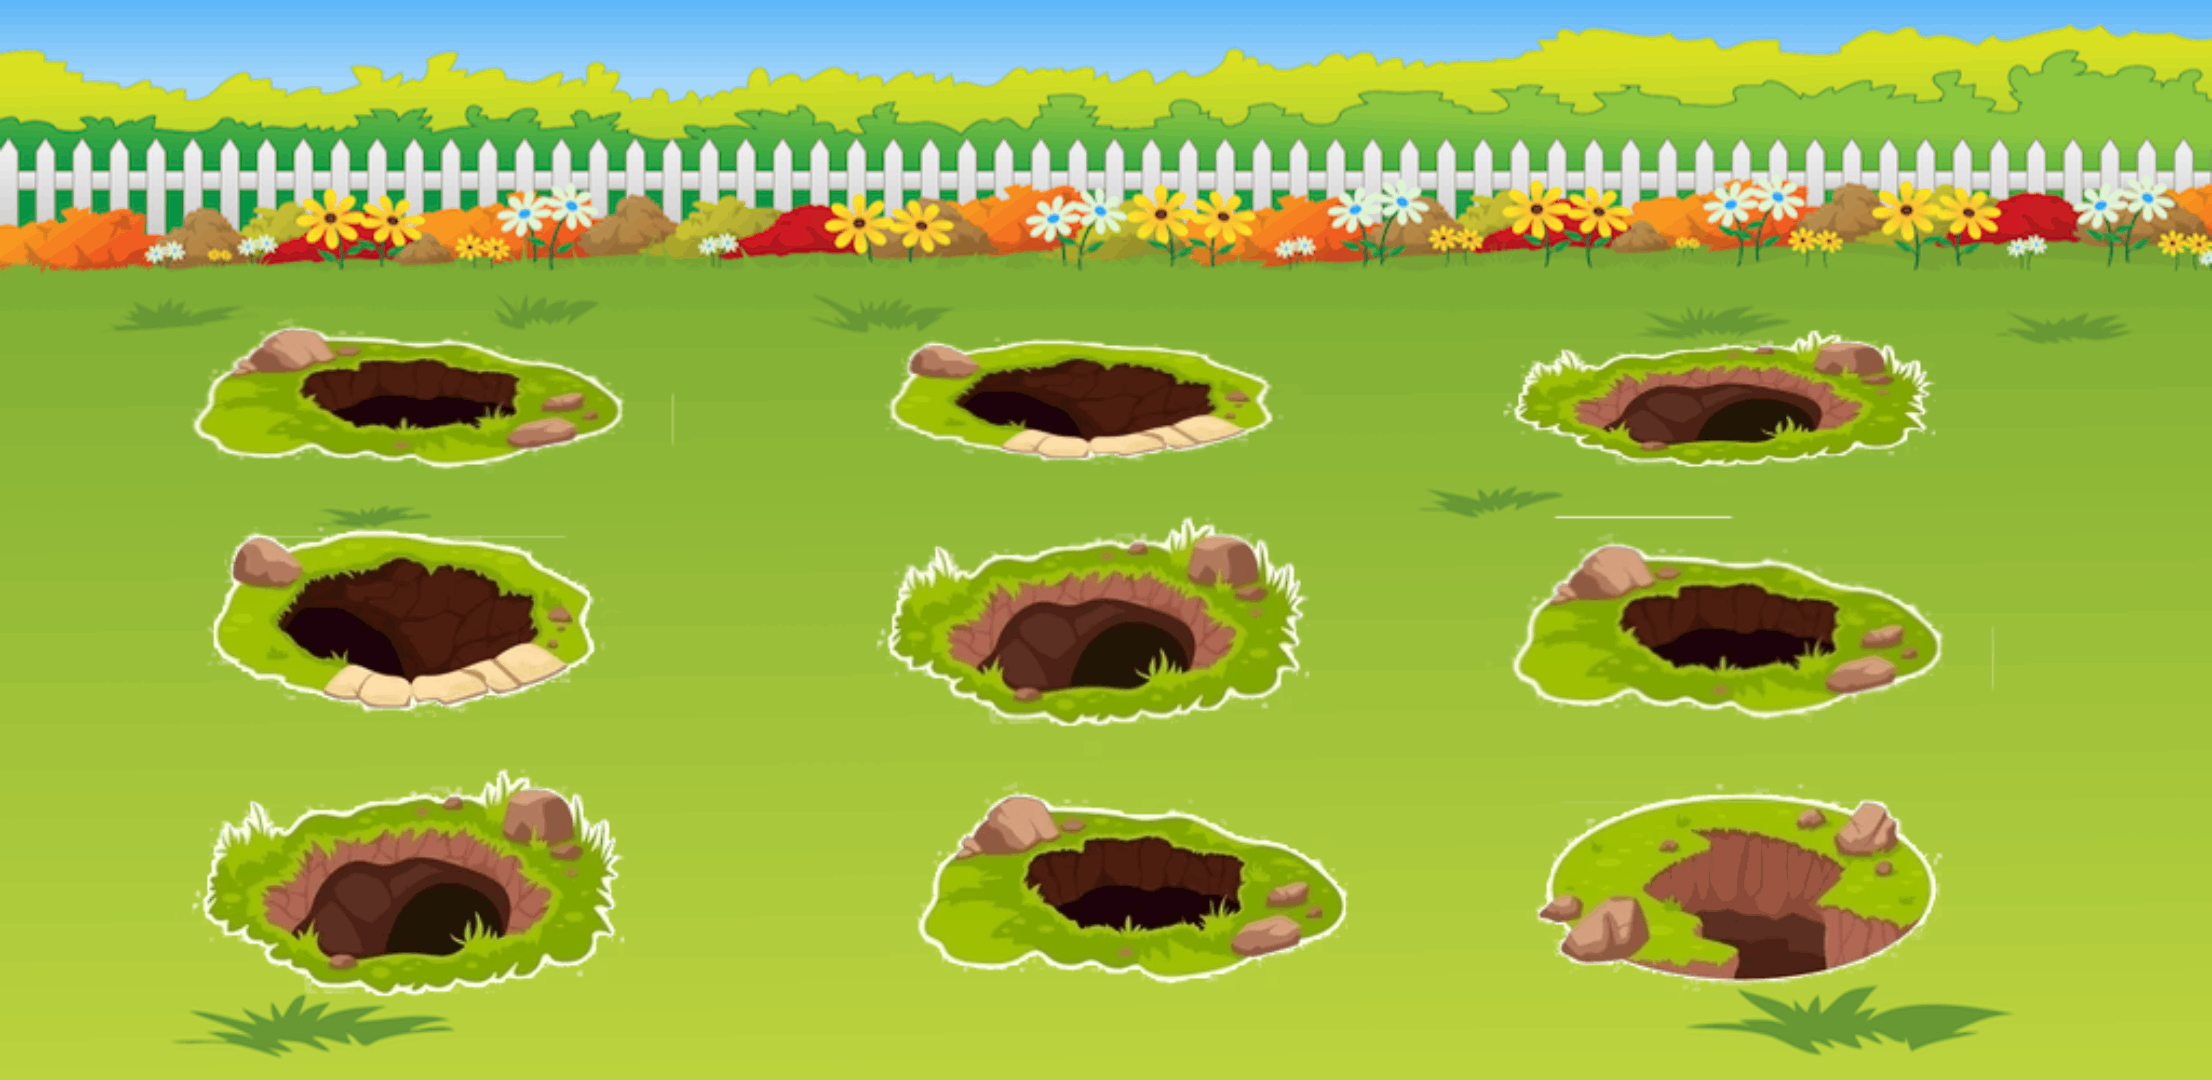
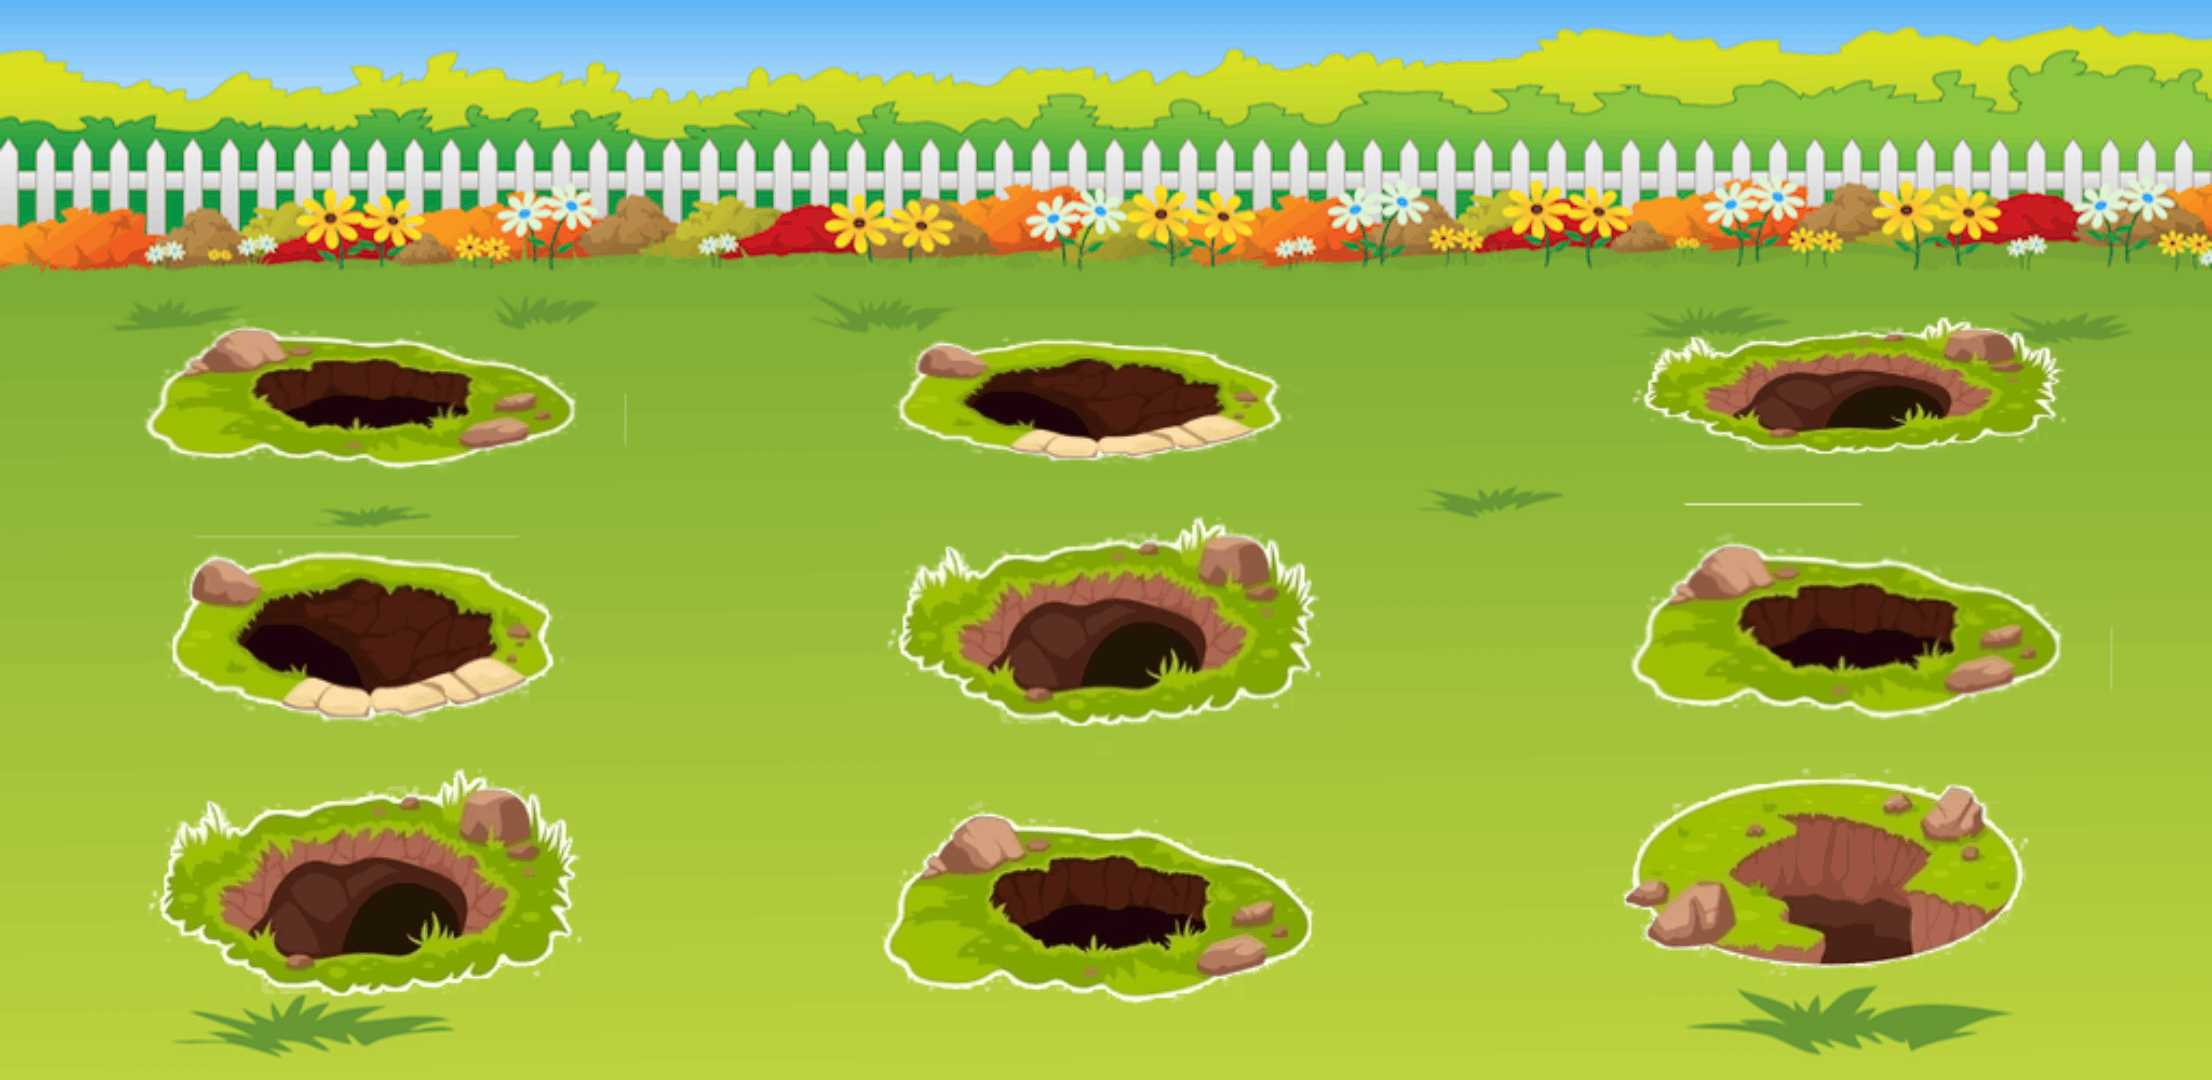
updated bg image

diff --git a/public/game.html b/public/game.html
@@ -19,21 +19,23 @@
         </nav>
     </header>
     <main class="background" id="game">
-        <img class="background__image" src="../src/assets/images/bg_game.png" alt="">
-        <div class="game-info">
-            <div id="score">Score: 0</div>
-            <div id="timer">Time: 60s</div>
-        </div>
-        <div class="game-container">
-            <div class="hole" id="hole2">1</div>
-            <div class="hole" id="hole3">2</div>
-            <div class="hole" id="hole4">3</div>
-            <div class="hole" id="hole5">4</div>
-            <div class="hole" id="hole6">5</div>
-            <div class="hole" id="hole7">6</div>
-            <div class="hole" id="hole8">7</div>
-            <div class="hole" id="hole9">8</div>
-            <div class="hole" id="hole9">9</div>
+
+        <div class="background__container">
+
+            <div class="grid game-container">
+                <img class="background__image" src="../src/assets/images/bg_game.png" alt="">
+                <div class="score">Score: 0</div>
+                <div class="time">Time: 60s</div>
+                <div class="hole hole-a" id="hole1"></div>
+                <div class="hole hole-b" id="hole2"></div>
+                <div class="hole hole-c" id="hole3"></div>
+                <div class="hole hole-d" id="hole4"></div>
+                <div class="hole hole-e" id="hole5"></div>
+                <div class="hole hole-f" id="hole6"></div>
+                <div class="hole hole-g" id="hole7"></div>
+                <div class="hole hole-h" id="hole8"></div>
+                <div class="hole hole-i" id="hole9"></div>
+            </div>
         </div>
     </main>
 

diff --git a/src/css/main.css b/src/css/main.css
@@ -23,15 +23,77 @@ body {
 
 .background {
   position: relative;
-  height: 85dvh;
+  height: 100%;
   width: 100%;
 }
 
+.background__container {
+  max-width: 90rem;
+  margin: 0 auto;
+}
+
+.grid {
+  display: grid;
+  grid-template-columns: repeat(3, 30rem);
+  grid-template-rows: 90px 190px 165px 180px;
+  justify-items: center;
+}
+
 .background__image {
-  position: absolute;
-  z-index: -1;
-  top: 0;
-  height: 95dvh;
-  width: 100%;
-  object-fit: cover;
+  grid-column: 1/-1;
+  grid-row: 1/-1;
+}
+
+.score {
+  grid-column: 1/2;
+  grid-row: 1/2;
+}
+
+.time {
+  grid-column: 3/4;
+  grid-row: 1/2;
+}
+
+.hole {
+  background-color: black;
+  width: 50px;
+  height: 75px;
+  align-self: end;
+}
+
+.hole-a {
+  grid-column: 1/2;
+  grid-row: 2/3;
+}
+.hole-b {
+  grid-column: 2/3;
+  grid-row: 2/3;
+}
+.hole-c {
+  grid-column: 3/4;
+  grid-row: 2/3;
+}
+.hole-d {
+  grid-column: 1/2;
+  grid-row: 3/4;
+}
+.hole-e {
+  grid-column: 2/3;
+  grid-row: 3/4;
+}
+.hole-f {
+  grid-column: 3/4;
+  grid-row: 3/4;
+}
+.hole-g {
+  grid-column: 1/2;
+  grid-row: 4/5;
+}
+.hole-h {
+  grid-column: 2/3;
+  grid-row: 4/5;
+}
+.hole-i {
+  grid-column: 3/4;
+  grid-row: 4/5;
 }
